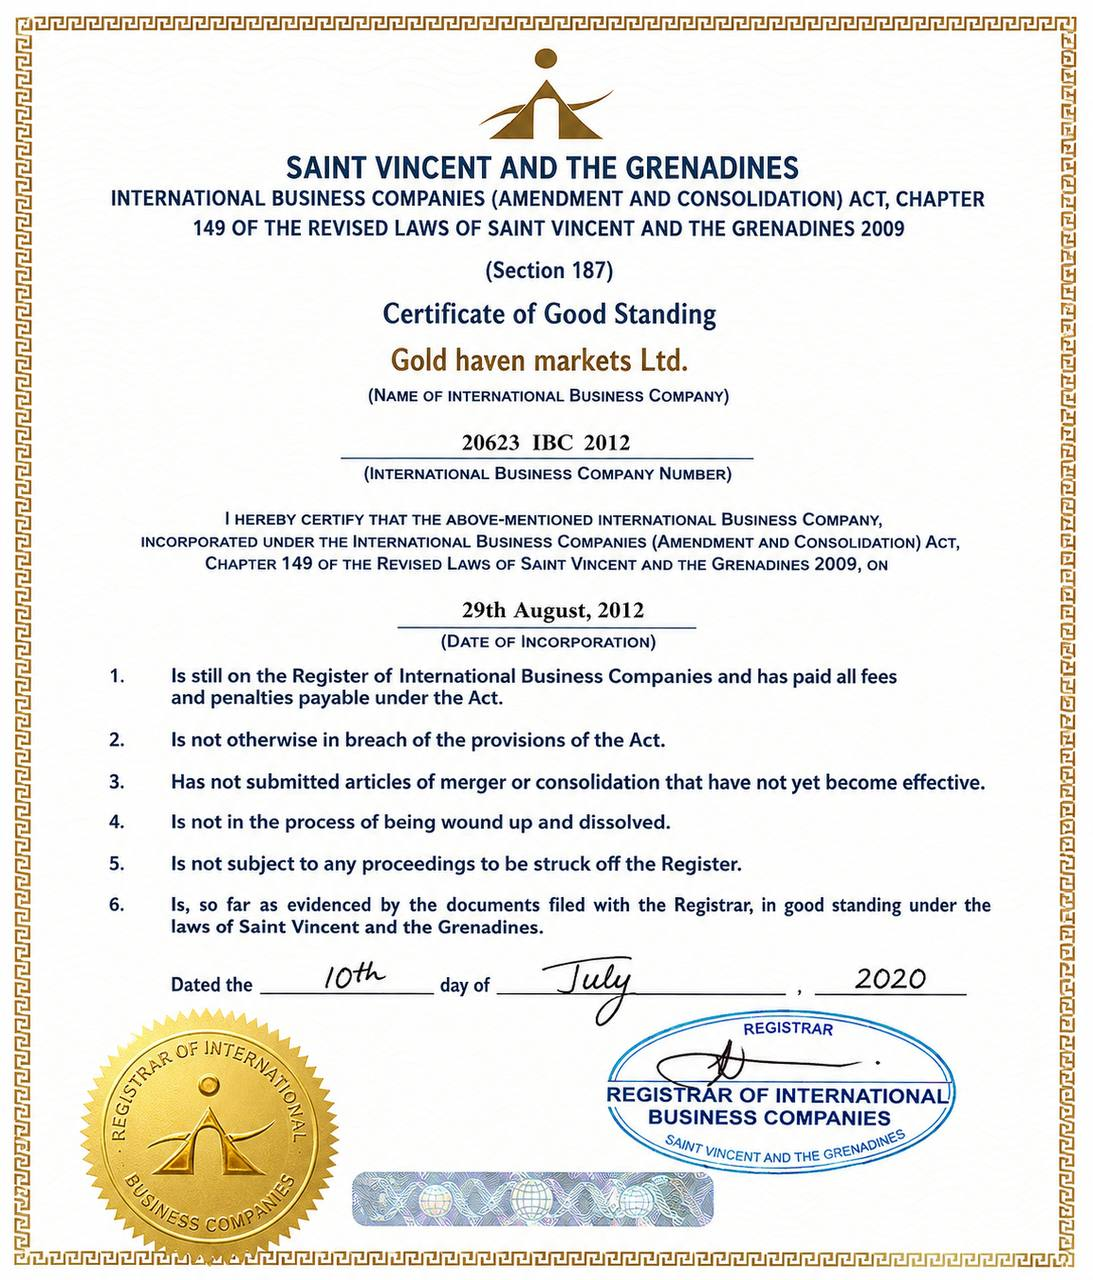
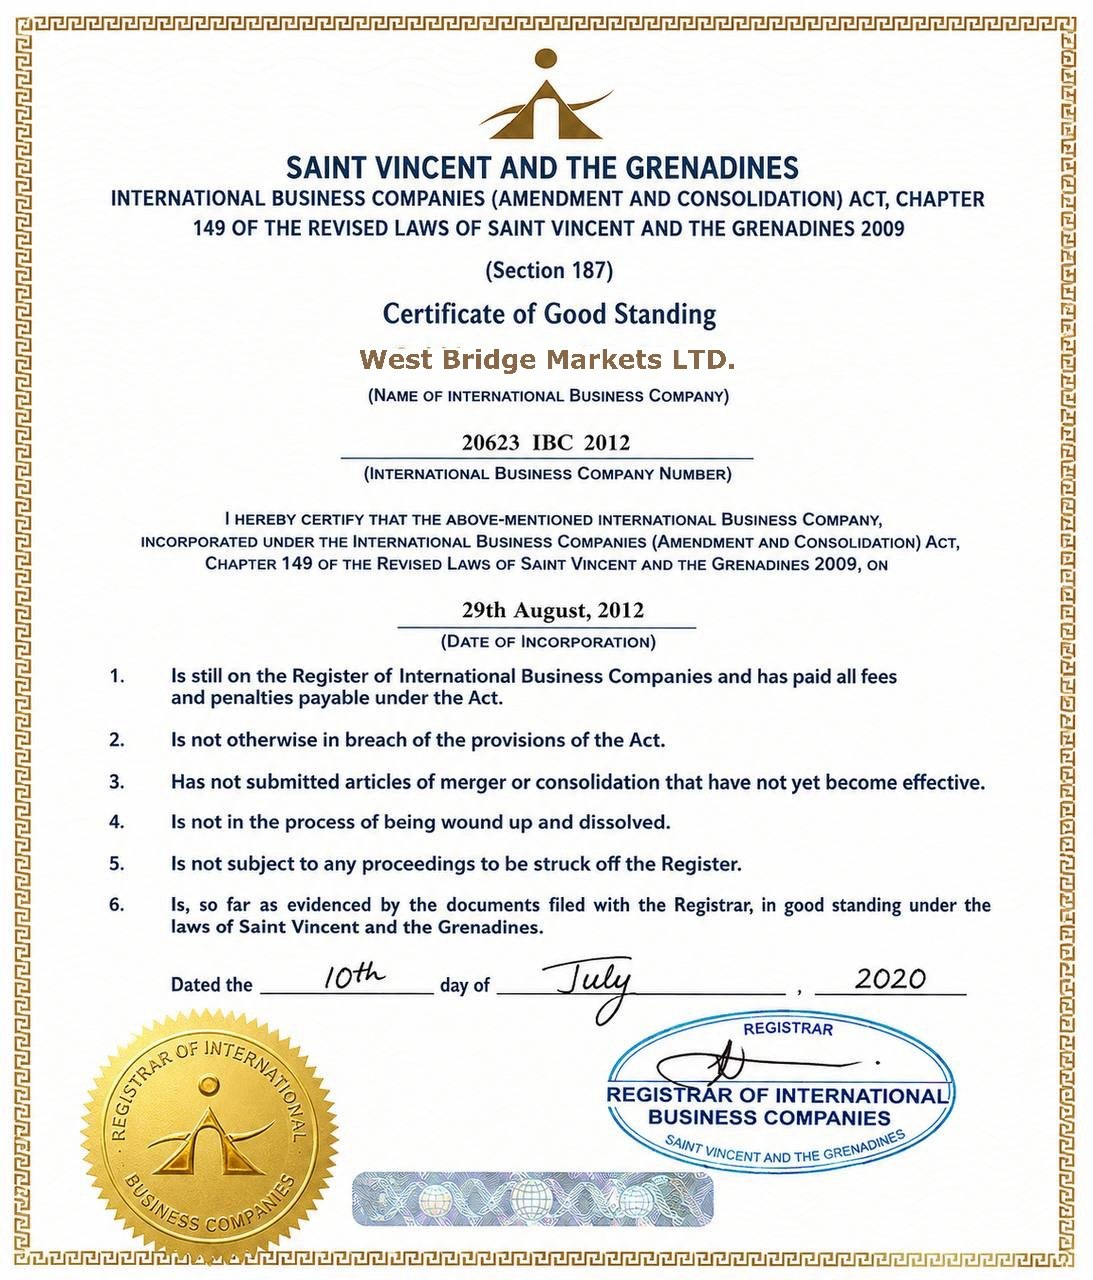
license

Changed region(s): [[0.3422, 0.25, 0.6532, 0.3125]]

diff --git a/components/navbar.tsx b/components/navbar.tsx
@@ -36,19 +36,23 @@ export function Navbar() {
   const isTransparent = false
 
   return (
-    <nav className="sticky top-0 z-50 w-full border-b border-white/10 bg-[#0c1017]/95 backdrop-blur-md shadow-none">
+    <nav className="sticky top-0 z-50 w-full border-b border-gray-200 dark:border-white/10 bg-white/95 dark:bg-[#0c1017]/95 backdrop-blur-md shadow-none transition-colors">
       <div className="container mx-auto flex h-16 items-center justify-between px-4">
         <div className="flex items-center gap-6">
           <Link href="/" className="flex items-center gap-3 group">
-            <div className="flex h-9 w-9 items-center justify-center bg-[#f04e23] text-white font-black text-lg tracking-tighter shrink-0 transition-transform group-hover:scale-105">
-              W.
-            </div>
-            <span className="text-lg font-bold tracking-tight text-white">Westbridge Market</span>
+            <img
+              src="/logo.png"
+              alt="Westbridge Market Logo"
+              className="h-8 w-auto object-contain transition-transform group-hover:scale-105"
+            />
+            <span className="text-lg font-bold tracking-tight text-gray-950 dark:text-white">
+              Westbridge Market
+            </span>
           </Link>
 
           <a
             href="tel:+12562867576"
-            className="hidden xl:inline-flex items-center text-xs font-mono text-gray-400 hover:text-white transition-colors pl-4 border-l border-white/10"
+            className="hidden xl:inline-flex items-center text-xs font-mono text-gray-500 hover:text-gray-900 dark:text-gray-400 dark:hover:text-white transition-colors pl-4 border-l border-gray-200 dark:border-white/10"
           >
             +1 (256) 286-7576
           </a>
@@ -62,8 +66,10 @@ export function Navbar() {
               <Link
                 key={link.href}
                 href={link.href}
-                className={`relative text-xs font-semibold tracking-wider uppercase transition-colors hover:text-white py-1 ${
-                  isActive ? "text-white" : "text-gray-400"
+                className={`relative text-xs font-semibold tracking-wider uppercase transition-colors hover:text-gray-950 dark:hover:text-white py-1 ${
+                  isActive
+                    ? "text-gray-950 dark:text-white"
+                    : "text-gray-600 dark:text-gray-400"
                 }`}
               >
                 {link.label}
@@ -81,14 +87,14 @@ export function Navbar() {
             variant="ghost"
             size="icon"
             onClick={() => setTheme(theme === "dark" ? "light" : "dark")}
-            className="h-8 w-8 text-gray-400 hover:text-white hover:bg-white/5 rounded-none"
+            className="h-8 w-8 text-gray-600 hover:text-gray-950 hover:bg-black/5 dark:text-gray-400 dark:hover:text-white dark:hover:bg-white/5 rounded-none"
           >
             <Sun className="h-4 w-4 rotate-0 scale-100 transition-all dark:-rotate-90 dark:scale-0" />
             <Moon className="absolute h-4 w-4 rotate-90 scale-0 transition-all dark:rotate-0 dark:scale-100" />
           </Button>
           <Button
             variant="ghost"
-            className="h-9 px-4 text-xs font-semibold uppercase tracking-wider text-gray-300 hover:text-white hover:bg-white/5 rounded-none"
+            className="h-9 px-4 text-xs font-semibold uppercase tracking-wider text-gray-700 hover:text-gray-950 hover:bg-black/5 dark:text-gray-300 dark:hover:text-white dark:hover:bg-white/5 rounded-none"
             asChild
           >
             <Link href="/auth/login">Sign In</Link>
@@ -107,16 +113,47 @@ export function Navbar() {
             variant="ghost"
             size="icon"
             onClick={() => setTheme(theme === "dark" ? "light" : "dark")}
-            className="h-9 w-9"
+            className="h-9 w-9 text-gray-700 dark:text-gray-300"
           >
             <Sun className="h-5 w-5 rotate-0 scale-100 transition-all dark:-rotate-90 dark:scale-0" />
             <Moon className="absolute h-5 w-5 rotate-90 scale-0 transition-all dark:rotate-0 dark:scale-100" />
           </Button>
-          <Button variant="ghost" size="icon" onClick={() => setMobileMenuOpen(!mobileMenuOpen)}>
+          <Button
+            variant="ghost"
+            size="icon"
+            onClick={() => setMobileMenuOpen(!mobileMenuOpen)}
+            className="text-gray-700 dark:text-gray-300"
+          >
             {mobileMenuOpen ? <X className="h-5 w-5" /> : <Menu className="h-5 w-5" />}
           </Button>
         </div>
       </div>
+
+      {/* Mobile Menu */}
+      {mobileMenuOpen && (
+        <div className="border-t border-gray-200 dark:border-white/10 bg-white dark:bg-[#0c1017] md:hidden">
+          <div className="container mx-auto flex flex-col gap-4 p-4">
+            {navLinks.map((link) => (
+              <Link
+                key={link.href}
+                href={link.href}
+                className="text-sm font-medium text-gray-700 hover:text-gray-950 dark:text-gray-300 dark:hover:text-white transition-colors"
+                onClick={() => setMobileMenuOpen(false)}
+              >
+                {link.label}
+              </Link>
+            ))}
+            <div className="flex flex-col gap-2 pt-2 border-t border-gray-100 dark:border-white/10">
+              <Button variant="outline" asChild className="w-full rounded-none border-gray-200 dark:border-white/20">
+                <Link href="/auth/login">Sign In</Link>
+              </Button>
+              <Button asChild className="w-full bg-[#f04e23] hover:bg-[#d84018] text-white rounded-none">
+                <Link href="/auth/signup">Get Started</Link>
+              </Button>
+            </div>
+          </div>
+        </div>
+      )}
 
       {/* Mobile Menu */}
       {mobileMenuOpen && (
